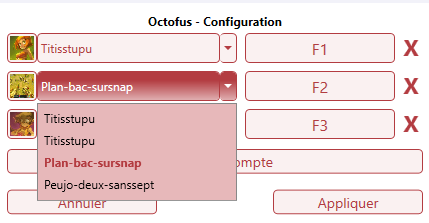
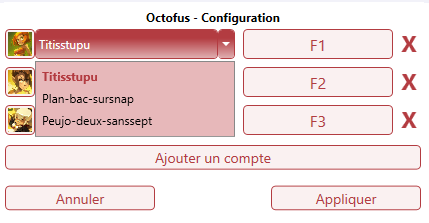
Fixing a bug when filling combobox in configuration view

diff --git a/Octofus/Views/Configuration/SubView/AccountKey.xaml.cs b/Octofus/Views/Configuration/SubView/AccountKey.xaml.cs
@@ -53,7 +53,12 @@ namespace Octofus.Views.Configuration.SubView
             }
 
             button.Content = key;
-            items.Add(accountName);
+
+            if (!items.Contains(accountName))
+            {
+                items.Add(accountName);
+            }
+
             comboBox.ItemsSource = items;
             comboBox.Text = accountName;
             comboBox.SelectionChanged += ComboBox_SelectionChanged;
